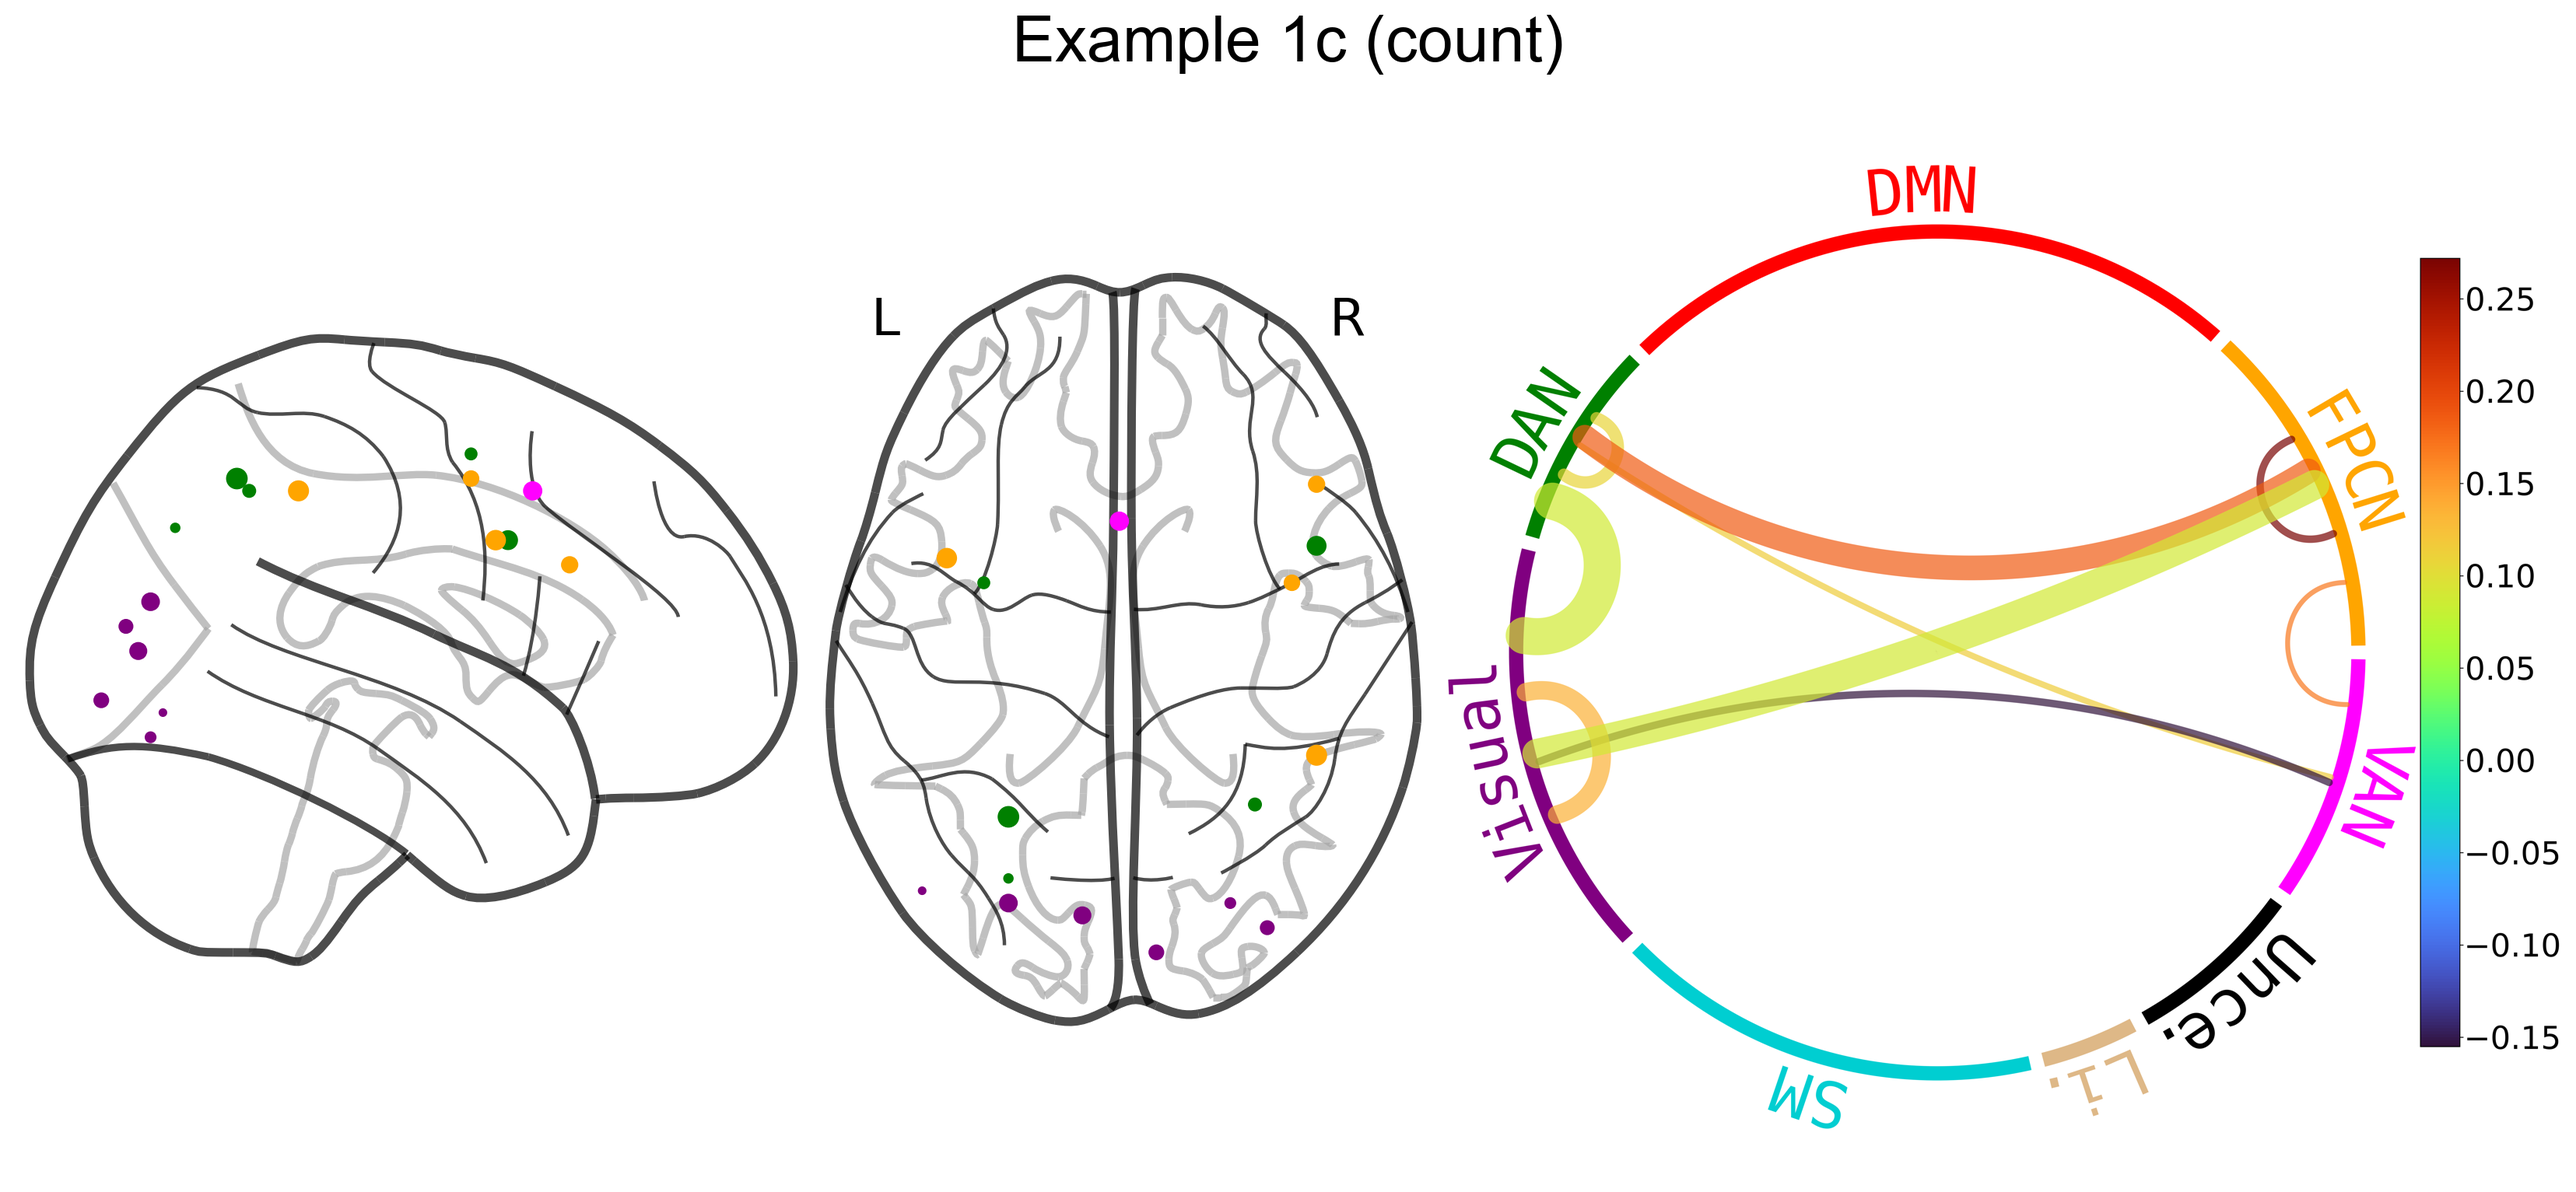
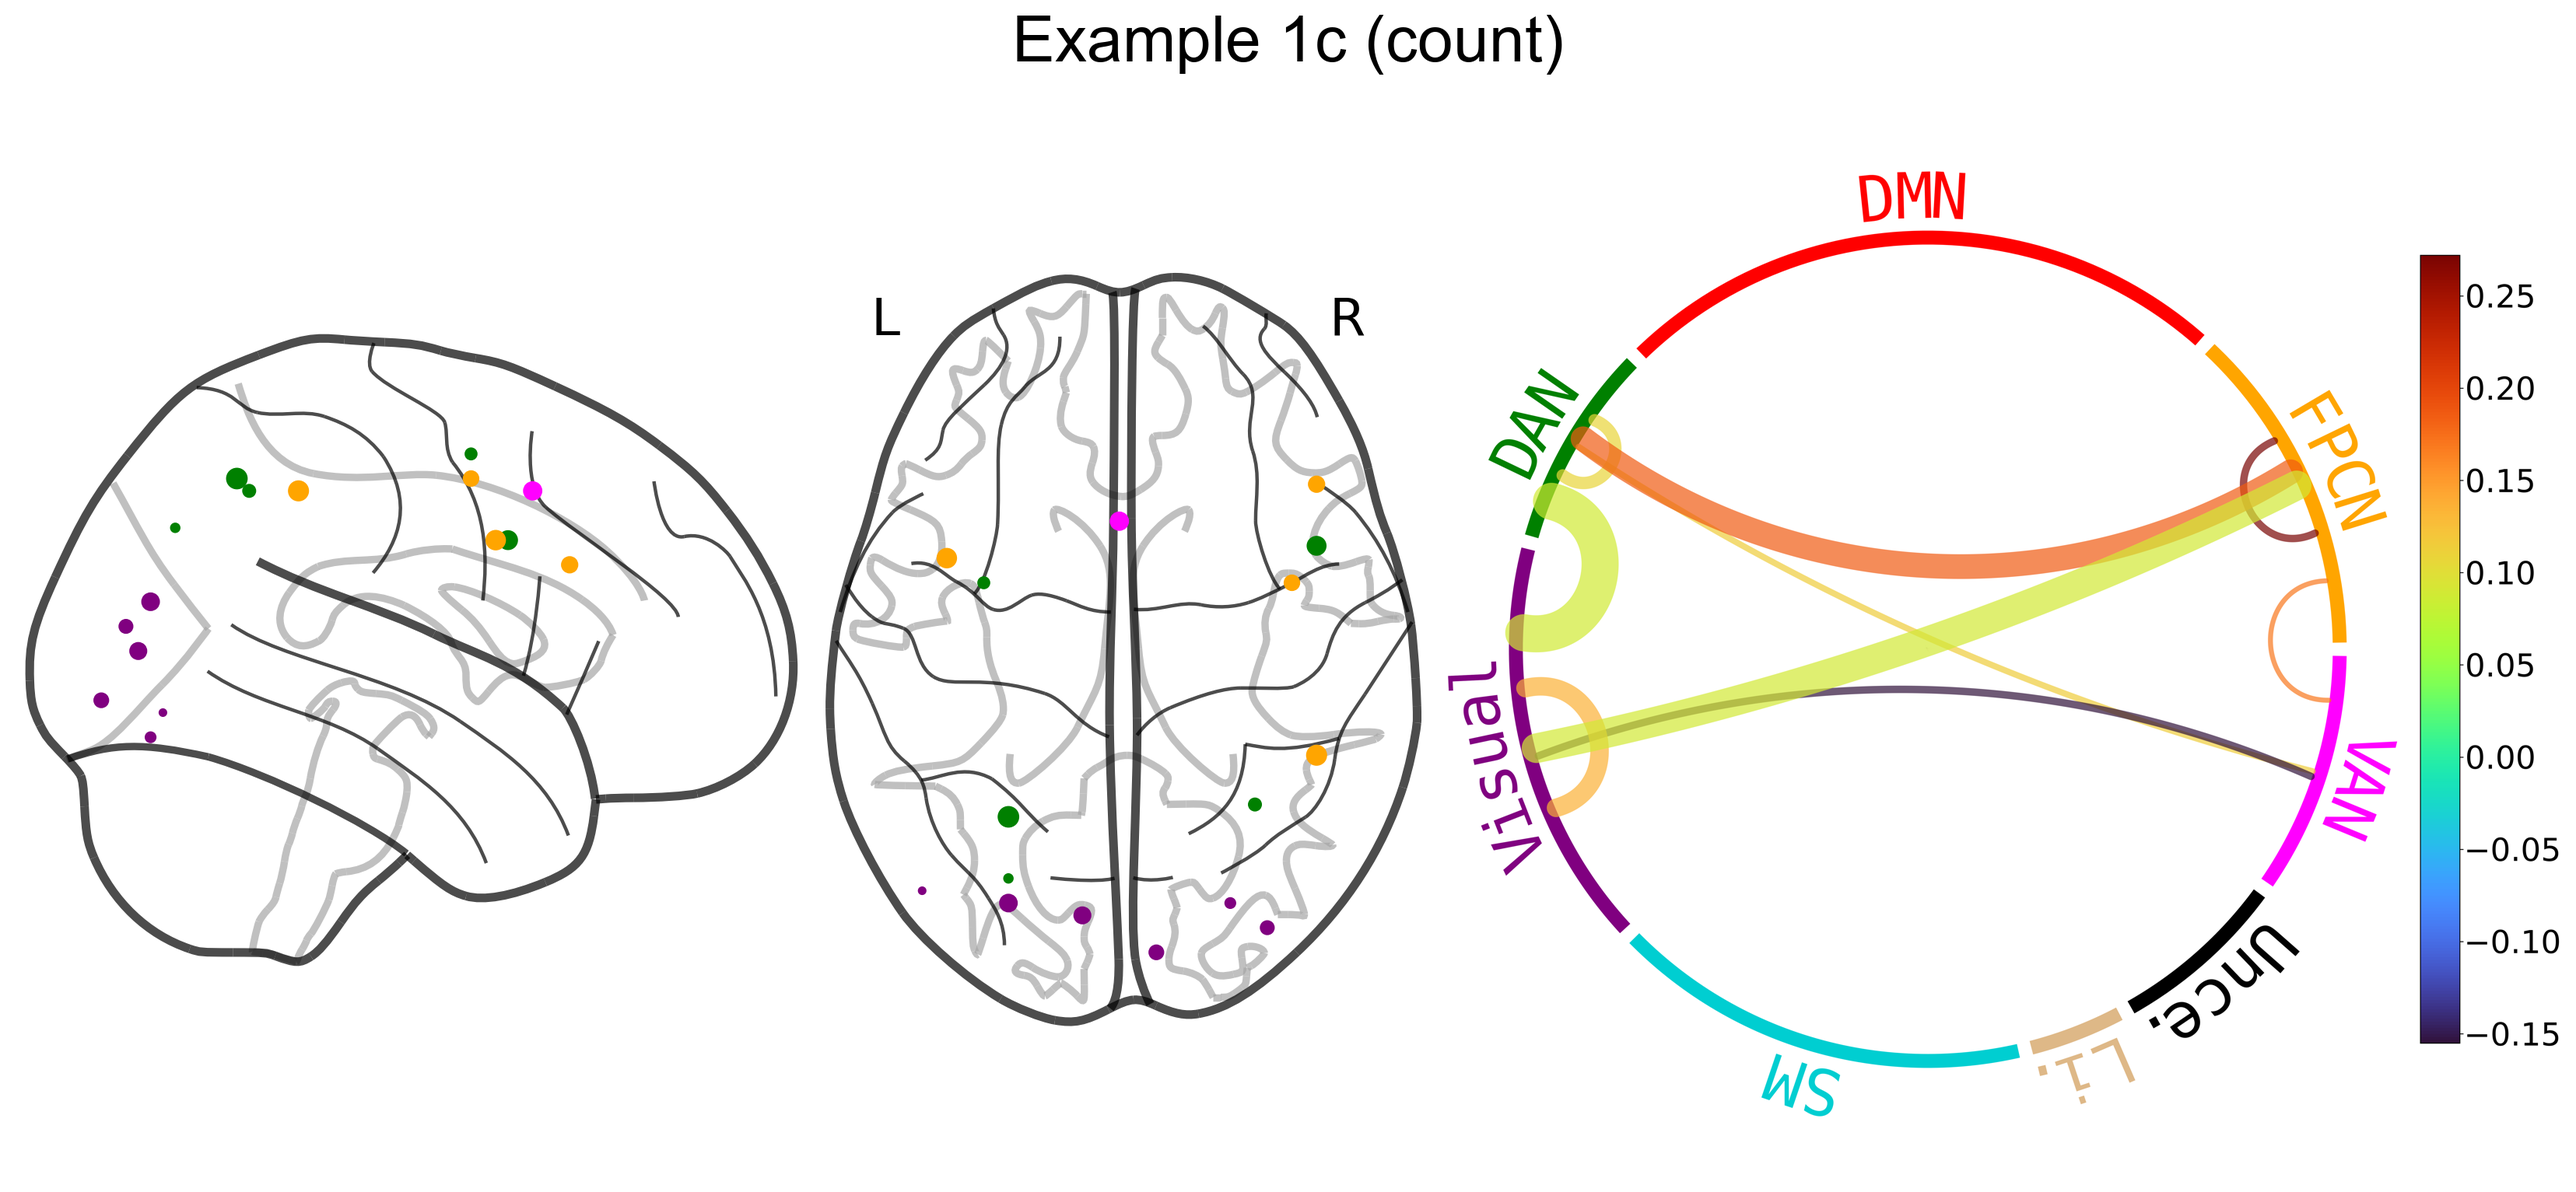
small bug fix and moved colorbar to right slightly

diff --git a/setup.py b/setup.py
@@ -17,7 +17,7 @@ setup(
     description="Creates chord diagrams for connectivity/graph data",
     long_description=desc,
     long_description_content_type="text/markdown",
-    version="v0.3.0",
+    version="v0.3.1",
     packages=["nichord"],
     python_requires=">=3.7",
     url="https://github.com/paulcbogdan/NiChord",
